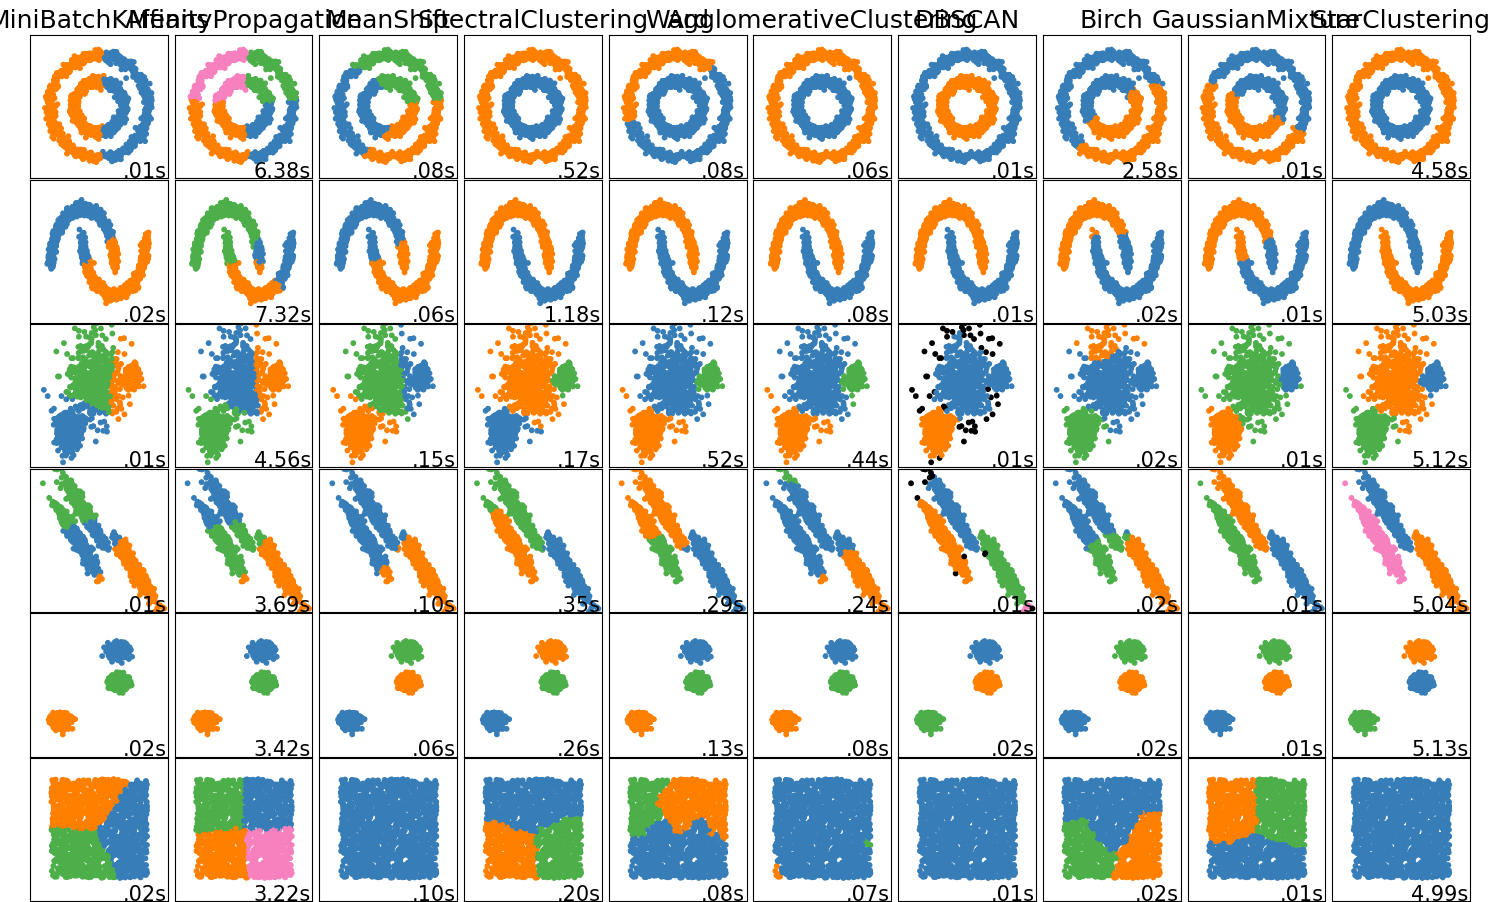
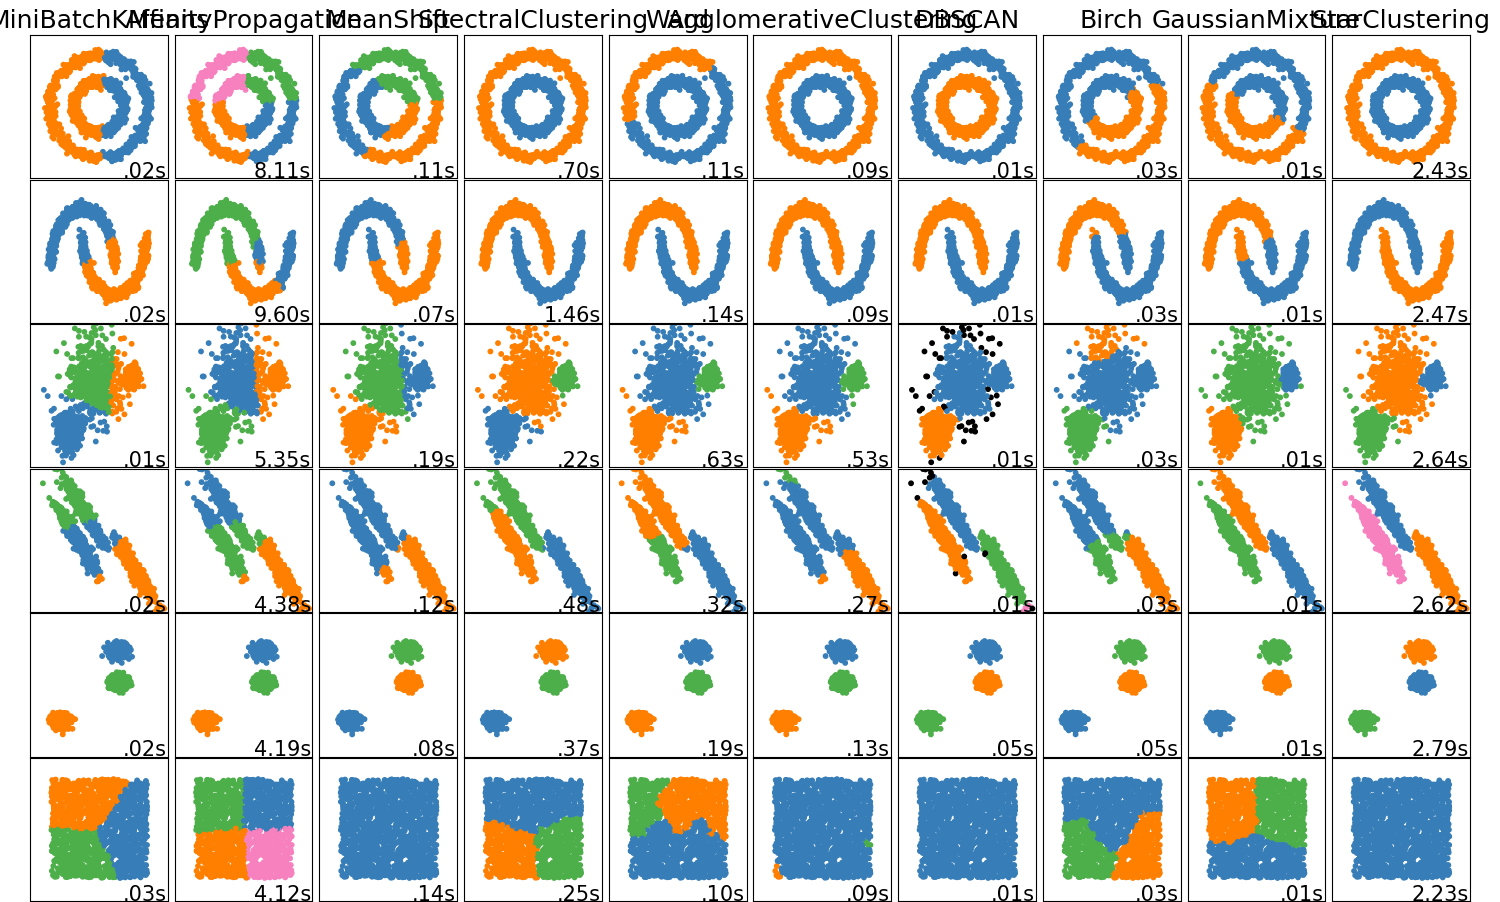
Refactoring for clarity and usage.

diff --git a/star_clustering.py b/star_clustering.py
@@ -13,30 +13,43 @@
 # limitations under the License.
 
 import numpy as np
-from distances import Angular, Euclidean
-
+from scipy.spatial.distance import pdist, squareform
 
 class StarCluster(object):
     """Star Clustering Algorithm"""
-
-    def fit(self, X, upper=False, limit_exp=1, dis_type='euclidean'):
+    def __init__(self, has_upper_cutoff=False, limit_factor='golden_ratio', threshold_factor='golden_ratio_conjugate', distance_type='euclidean', debug=False):
+        self.has_upper_cutoff = has_upper_cutoff
         # Set Constant of Proportionality
-        golden_ratio = ((1.0 + (5.0 ** 0.5)) / 2.0)
+        if limit_factor == 'golden_ratio':
+            self.limit_factor = ((1.0 + (5.0 ** 0.5)) / 2.0)
+        elif limit_factor == 'golden_ratio_conjugate':
+            self.limit_factor = ((1.0 + (5.0 ** 0.5)) / 2.0) - 1.0
+        elif isinstance(limit_factor, float):
+            self.limit_factor = limit_factor
+        else:
+            raise
+        if threshold_factor == 'golden_ratio':
+            self.threshold_factor = ((1.0 + (5.0 ** 0.5)) / 2.0)
+        elif threshold_factor == 'golden_ratio_conjugate':
+            self.threshold_factor = ((1.0 + (5.0 ** 0.5)) / 2.0) - 1.0
+        elif isinstance(threshold_factor, float):
+            self.threshold_factor = threshold_factor
+        else:
+            raise
+        self.distance_type = distance_type
+        self.debug = debug
+
+    def fit(self, X):
         # Number of Nodes
         n = X.shape[0]
         # Number of Features
         d = X.shape[1]
 
-        if dis_type == 'angular':
-            dis_class = Angular
-        else:
-            dis_class = Euclidean
-
         # Construct Node-To-Node Matrix of Distances
-        distances_matrix = dis_class.calc(X)
+        distances_matrix = squareform(pdist(X, self.distance_type))
 
         # Determine Average Distance And Extend By Constant of Proportionality To Set Limit
-        limit = np.sum(distances_matrix) / (n * n - n) * golden_ratio ** limit_exp
+        limit = np.sum(distances_matrix) / (n * n - n) * self.limit_factor
 
         # Construct List of Distances Less Than Limit
         distances_list = []
@@ -52,7 +65,7 @@ class StarCluster(object):
         empty_clusters = []
         mindex = 0
         self.labels_ = np.zeros(n, dtype='int32') - 1
-        if upper:
+        if self.has_upper_cutoff:
             self.ulabels = np.zeros(n, dtype='int32')
         mass = np.zeros(n, dtype='float32')
         while np.mean(mass) <= limit:
@@ -87,14 +100,14 @@ class StarCluster(object):
             mass[mindex] -= distance
 
         # Set Threshold Based On Average Modified By Deviation Reduced By Constant of Proportionality
-        threshold = np.mean(mass) - np.std(mass) / golden_ratio
+        threshold = np.mean(mass) - np.std(mass) * self.threshold_factor
 
         # Disconnect Lower Mass Nodes
         for i in range(n):
             if mass[i] <= threshold:
                 self.labels_[i] = -1
-        if upper:
-            uthreshold = np.mean(mass) + np.std(mass) / golden_ratio
+        if self.has_upper_cutoff:
+            uthreshold = np.mean(mass) + np.std(mass) * self.threshold_factor
             for i in range(n):
                 if mass[i] >= uthreshold:
                     self.ulabels[i] = -1
@@ -106,7 +119,7 @@ class StarCluster(object):
         while -1 in self.labels_:
             i = np.argmax(mass)
             mindex = i
-            if upper:
+            if self.has_upper_cutoff:
                 while self.labels_[mindex] == -1:
                     dsorted = np.argsort(distances_matrix[i])
                     not_connected = True
@@ -128,7 +141,7 @@ class StarCluster(object):
             self.labels_[i] = self.labels_[mindex]
             mass[i] = -np.inf
 
-        if upper:
+        if self.has_upper_cutoff and self.debug:
             print('Connections to nodes above upper mass threshold skipped: {}'.format(acount))
         return self
 

diff --git a/README.md b/README.md
@@ -9,6 +9,7 @@ The Star Clustering algorithm is a clustering technique that is loosely inspired
 The following dependencies should be installed:
 
 * numpy
+* scipy
 
 ## Setup
 
@@ -62,7 +63,12 @@ Note that the word vectors test requires a copy of the FastText pretrained word 
 * new features were (hopefully) added in a way that everything should work identically to the original code if default arguments are sent to the Starcluster.fit() method
 * **basic_english_upper_angular_centered_lim0p618.txt** contains results of word clustering with arguments of fit(vectors, upper=True, limit_exp=-1, dis_type='angular')
 
+## Refactoring Update
 
+* switched to using the pdist class from scipy for distance metrics
+* changed hyperparameter names to be a bit more verbose but clearer
+* allow the constant factors to take any float value
+* added a verbose debugging flag
 
 ## License
 
